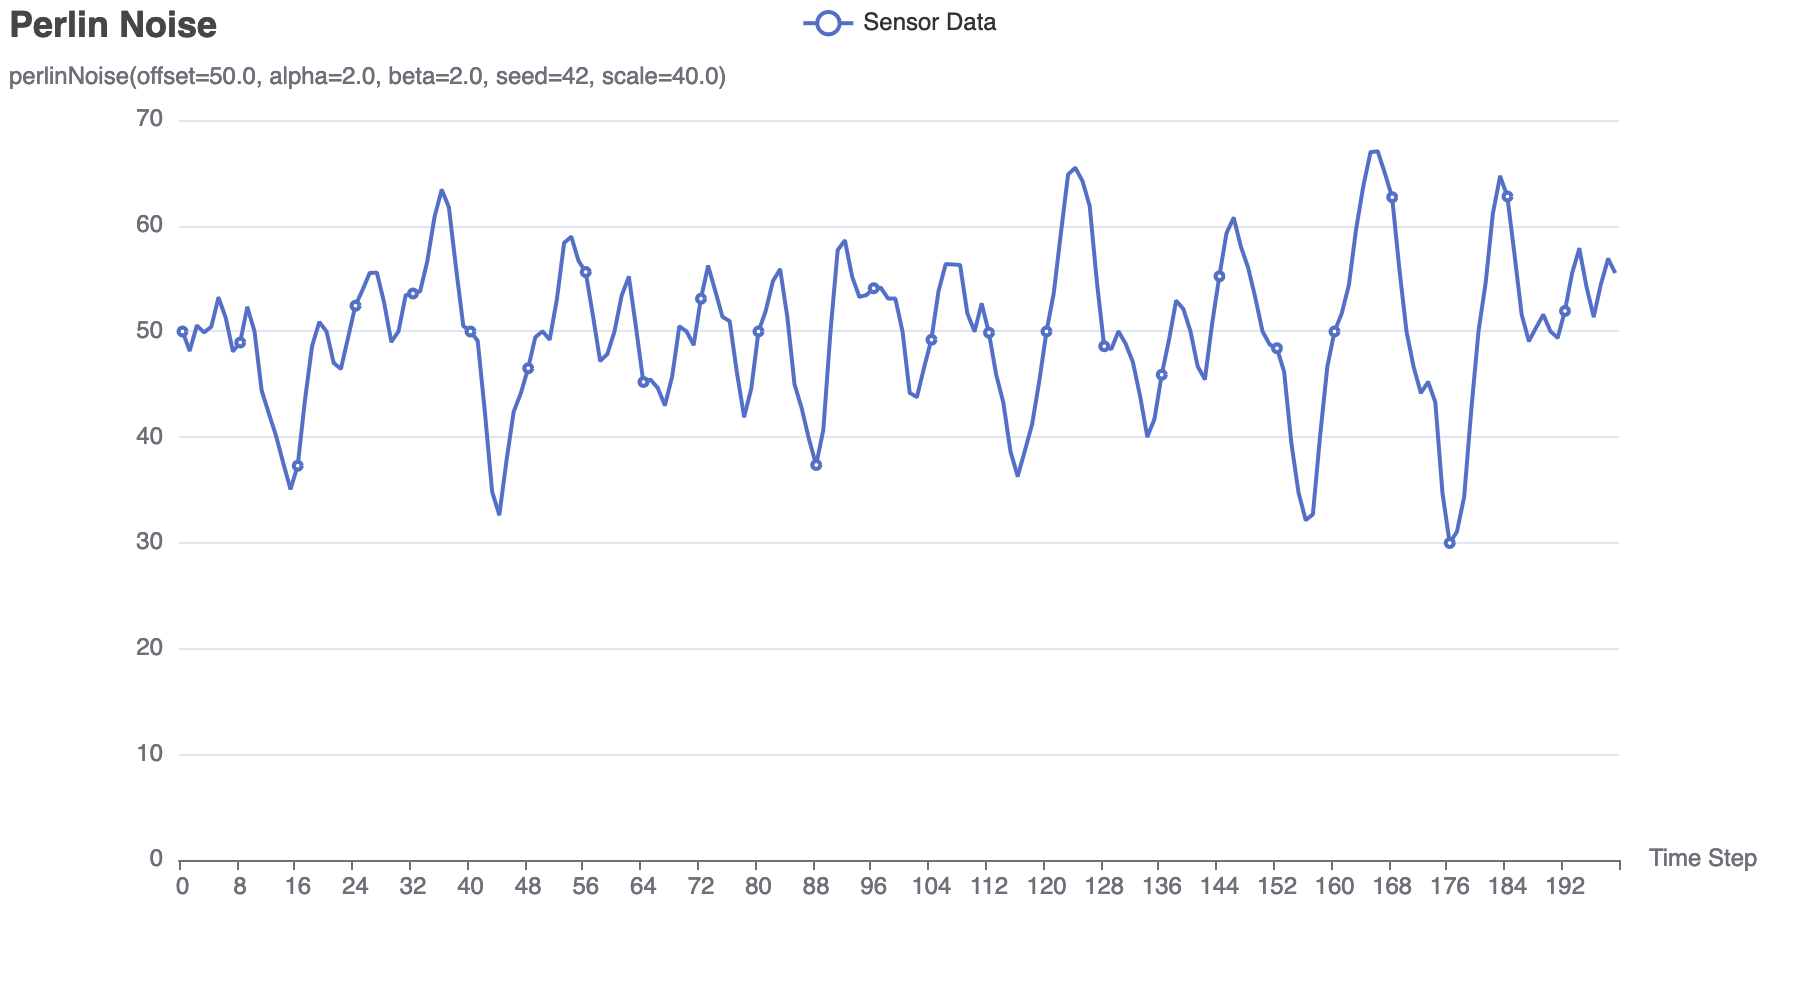
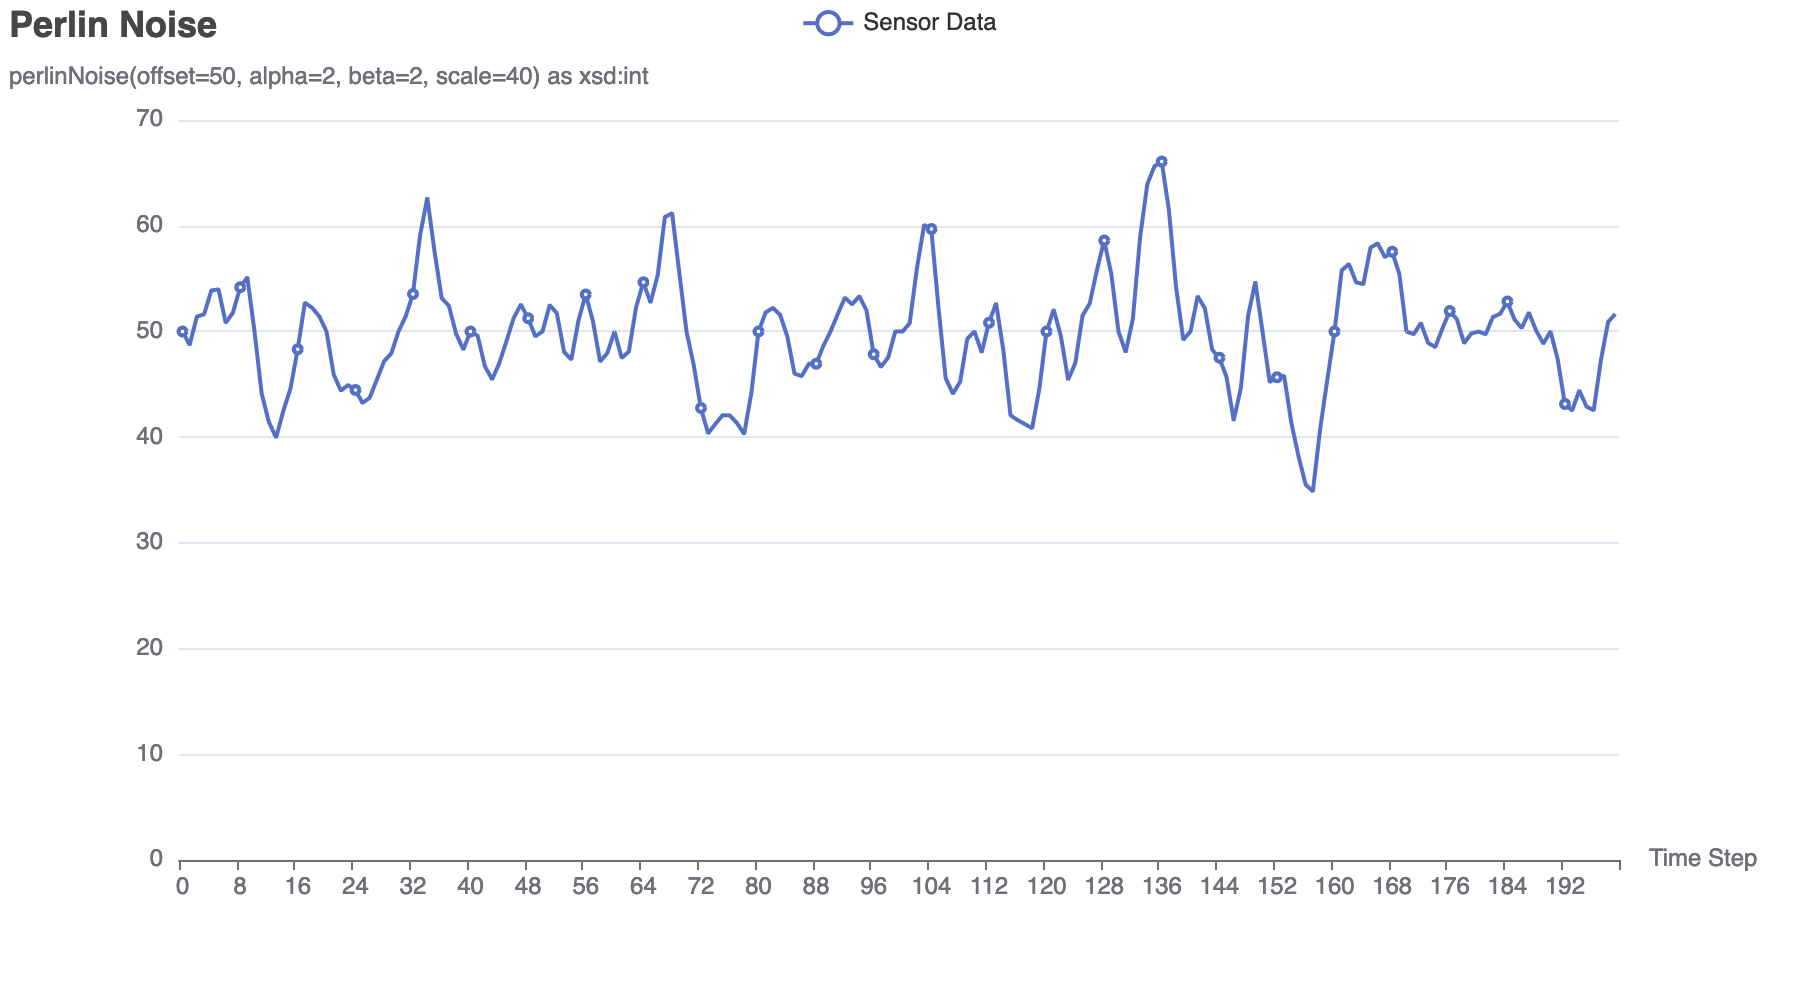
Make perlinNoise seed implicit

diff --git a/datamodel/noise/generator.go b/datamodel/noise/generator.go
@@ -3,6 +3,7 @@ package noise
 import (
 	"math"
 	"math/rand/v2"
+	"time"
 
 	"github.com/aquilax/go-perlin"
 )
@@ -80,12 +81,10 @@ func SineWithNoise(offset, amplitude, frequency, phase, noiseScale float64) Gene
 //     the noise smoother.
 //   - beta: Controls the frequency of the Perlin noise. Higher values increase
 //     the frequency.
-//   - seed: A seed value for the random number generator to ensure
-//     reproducibility.
 //   - scale: A scaling factor to adjust the amplitude of the noise.
 //   - offset: A constant value to be added to the generated noise values.
-func PerlinNoise(offset, alpha, beta float64, seed int64, scale float64) Generator {
-	p := perlin.NewPerlin(alpha, beta, 3, seed)
+func PerlinNoise(offset, alpha, beta float64, scale float64) Generator {
+	p := perlin.NewPerlin(alpha, beta, 3, time.Now().UnixNano())
 	i := 0
 	return func() float64 {
 		value := p.Noise1D(float64(i) * 0.1)

diff --git a/datamodel/noise/generator_test.go b/datamodel/noise/generator_test.go
@@ -16,7 +16,6 @@ const (
 	noiseScale = 0.1
 	alpha      = 2.0
 	beta       = 2.0
-	seed       = int64(42)
 	scale      = 1.0
 )
 
@@ -52,7 +51,7 @@ func TestSineWithNoiseBounds(t *testing.T) {
 }
 
 func TestPerlinNoiseBounds(t *testing.T) {
-	gen := PerlinNoise(offset, alpha, beta, seed, scale)
+	gen := PerlinNoise(offset, alpha, beta, scale)
 	for i := 0; i < 100; i++ {
 		value := gen()
 		// Perlin noise values are typically between -1 and 1, scaled and offset
@@ -84,7 +83,7 @@ func BenchmarkSineWithNoise(b *testing.B) {
 }
 
 func BenchmarkPerlinNoise(b *testing.B) {
-	gen := PerlinNoise(offset, alpha, beta, seed, scale)
+	gen := PerlinNoise(offset, alpha, beta, scale)
 	b.ResetTimer()
 	for i := 0; i < b.N; i++ {
 		gen()

diff --git a/datamodel/noise/parser.go b/datamodel/noise/parser.go
@@ -99,10 +99,10 @@ func createGenerator(name string, args map[string]float64) (Generator, error) {
 		}
 		return SineWithNoise(args["offset"], args["amplitude"], args["frequency"], args["phase"], args["noiseScale"]), nil
 	case "perlinNoise":
-		if err := requireArgs(args, "offset", "alpha", "beta", "seed", "scale"); err != nil {
+		if err := requireArgs(args, "offset", "alpha", "beta", "scale"); err != nil {
 			return nil, err
 		}
-		return PerlinNoise(args["offset"], args["alpha"], args["beta"], int64(args["seed"]), args["scale"]), nil
+		return PerlinNoise(args["offset"], args["alpha"], args["beta"], args["scale"]), nil
 	default:
 		return nil, errors.New("unknown generator function")
 	}

diff --git a/datamodel/noise/example_test.go b/datamodel/noise/example_test.go
@@ -20,7 +20,7 @@ func TestGeneratePreviews(t *testing.T) {
 	page.SetLayout(components.PageFlexLayout)
 	page.AddCharts(
 		renderChart(t, "randomWalk(startValue=50, minValue=30, maxValue=70, step=5) as xsd:int", steps),
-		renderChart(t, "perlinNoise(offset=50, alpha=2, beta=2, seed=42, scale=40) as xsd:int", steps),
+		renderChart(t, "perlinNoise(offset=50, alpha=2, beta=2, scale=40) as xsd:int", steps),
 		renderChart(t, "piecewiseLinear(startValue=50, minValue=30, maxValue=70, step=5) as xsd:int", steps),
 		renderChart(t, "sineWithNoise(offset=50, amplitude=20, frequency=0.1, phase=0, noiseScale=5) as xsd:int", steps),
 	)

diff --git a/datamodel/parameter_test.go b/datamodel/parameter_test.go
@@ -200,7 +200,7 @@ func TestNormalizeUint(t *testing.T) {
 func TestGenerator(t *testing.T) {
 	fd := strings.NewReader(strings.TrimSpace(`
 Parameter,Object,Writable,Value,Type
-Device.DeviceInfo.ProcessStatus.CPUUsage,false,true,"perlinNoise(offset=50, alpha=2, beta=2, seed=42, scale=40) as xsd:int",sim:generator
+Device.DeviceInfo.ProcessStatus.CPUUsage,false,true,"perlinNoise(offset=50, alpha=2, beta=2, scale=40) as xsd:int",sim:generator
 `))
 	params, err := LoadDataModel(fd)
 	assert.NoError(t, err)

diff --git a/doc/noisegen.md b/doc/noisegen.md
@@ -68,15 +68,13 @@ noise. This simulates a sensor that produces readings which follow a smooth,
 natural pattern.
 
 ```
-perlinNoise(offset=50, alpha=2, beta=2, seed=42, scale=40) as xsd:int
+perlinNoise(offset=50, alpha=2, beta=2, scale=40) as xsd:int
 ```
 
 - `alpha`: Controls the smoothness of the Perlin noise. Higher values make the
   noise smoother.
 - `beta`: Controls the frequency of the Perlin noise. Higher values increase the
   frequency.
-- `seed`: A seed value for the random number generator to ensure
-  reproducibility.
 - `scale`: A scaling factor to adjust the amplitude of the noise.
 - `offset`: A constant value to be added to the generated noise values.
 

diff --git a/README.md b/README.md
@@ -58,7 +58,7 @@ It is possible to fake parameter values using
 
 ```csv
 Parameter,Object,Writable,Value,Type
-Device.DeviceInfo.ProcessStatus.CPUUsage,false,true,"perlinNoise(offset=50, alpha=2, beta=2, seed=42, scale=40) as xsd:int",sim:generator
+Device.DeviceInfo.ProcessStatus.CPUUsage,false,true,"perlinNoise(offset=50, alpha=2, beta=2, scale=40) as xsd:int",sim:generator
 ```
 
 ## Parameter Normalization
